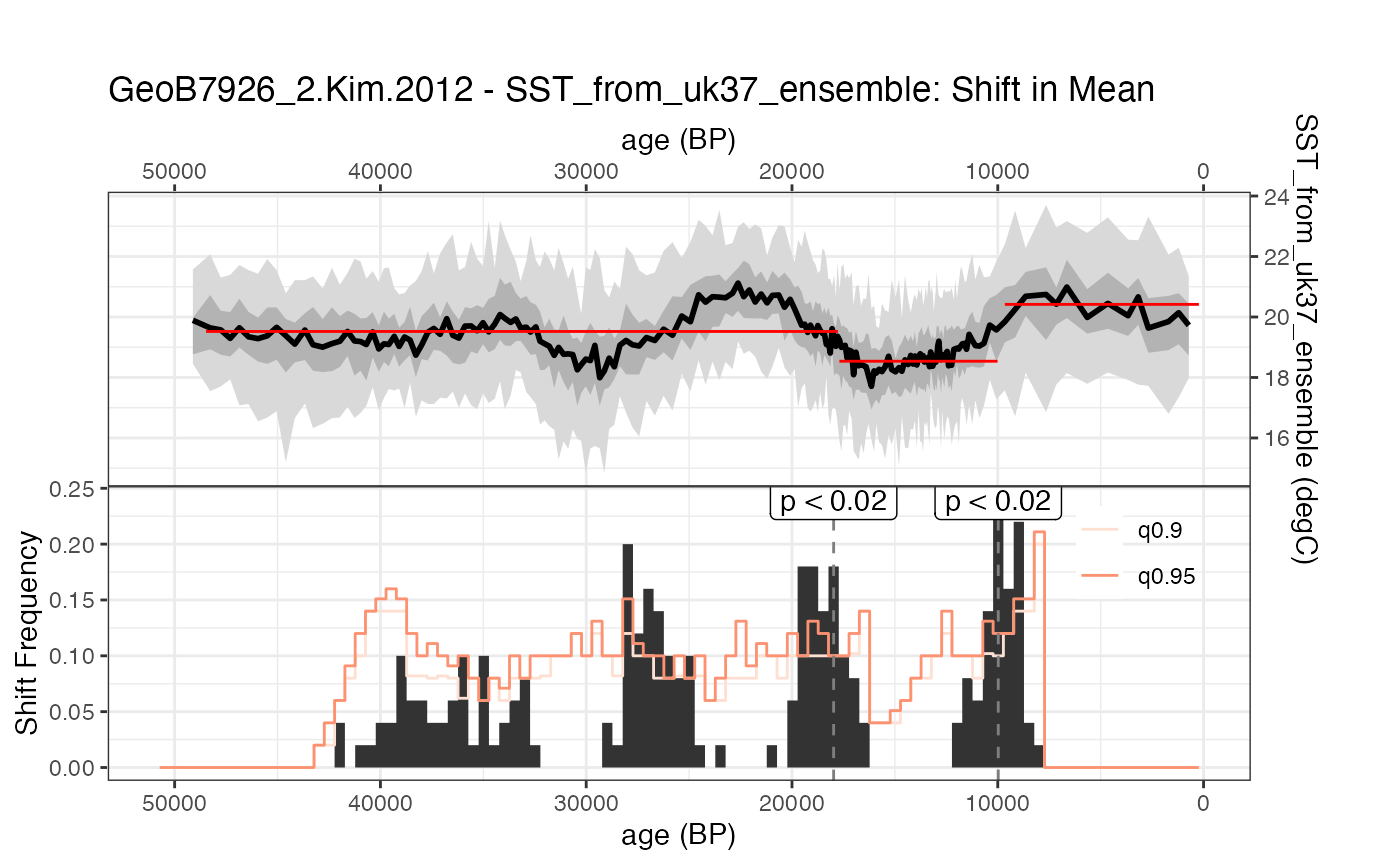
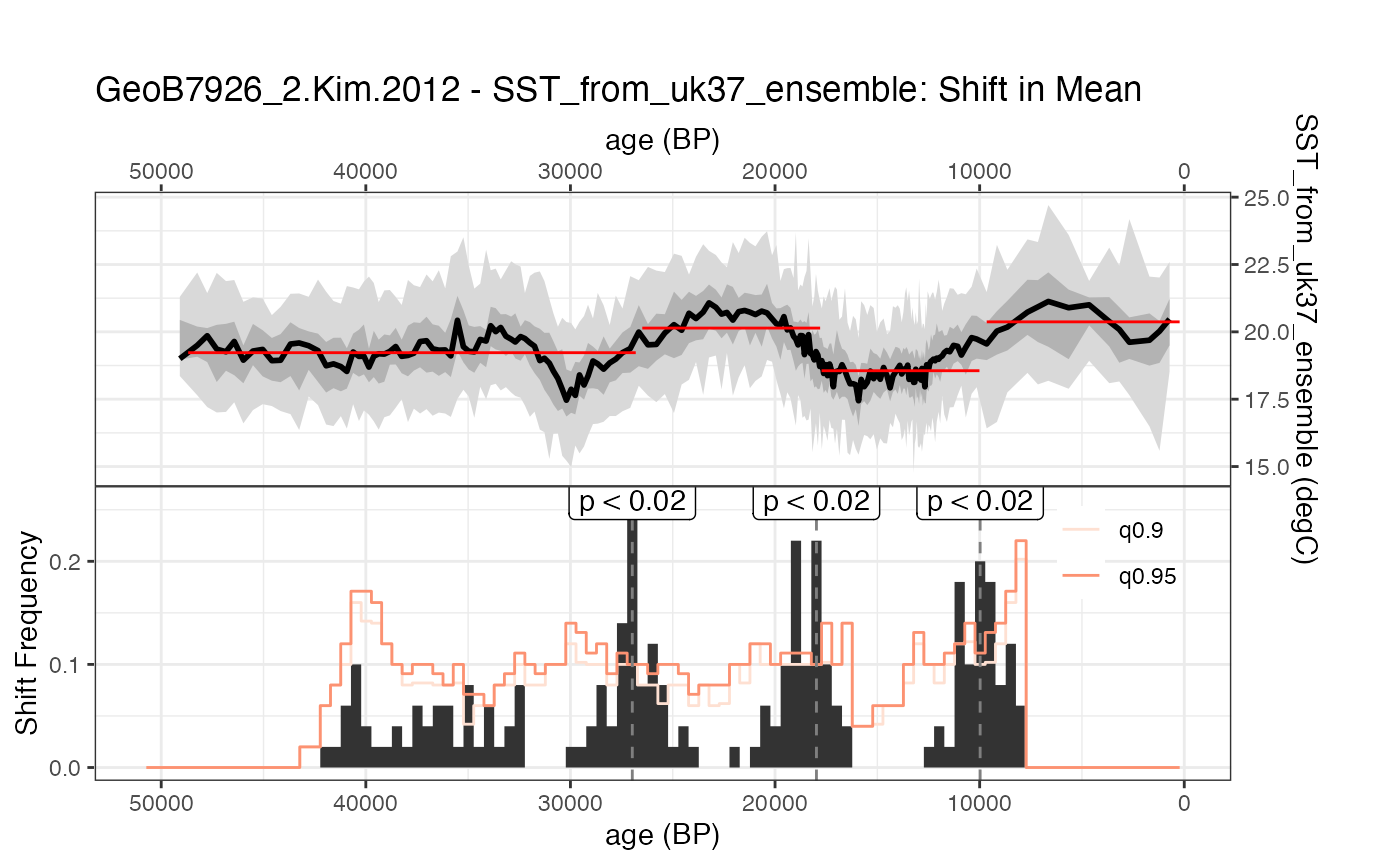
1.1.3

diff --git a/docs/articles/detectShift.html b/docs/articles/detectShift.html
@@ -31,7 +31,7 @@
       </button>
       <span class="navbar-brand">
         <a class="navbar-link" href="../index.html">actR</a>
-        <span class="version label label-default" data-toggle="tooltip" data-placement="bottom" title="Released version">0.1.2</span>
+        <span class="version label label-default" data-toggle="tooltip" data-placement="bottom" title="Released version">0.1.3</span>
       </span>
     </div>
 
@@ -47,7 +47,7 @@
   <a href="../reference/index.html">Reference</a>
 </li>
 <li class="dropdown">
-  <a href="#" class="dropdown-toggle" data-toggle="dropdown" role="button" aria-expanded="false">
+  <a href="#" class="dropdown-toggle" data-toggle="dropdown" role="button" data-bs-toggle="dropdown" aria-expanded="false">
     Articles
      
     <span class="caret"></span>
@@ -81,7 +81,7 @@
 
       
 
-      </header><script src="detectShift_files/header-attrs-2.9/header-attrs.js"></script><div class="row">
+      </header><script src="detectShift_files/header-attrs-2.13/header-attrs.js"></script><div class="row">
   <div class="col-md-9 contents">
     <div class="page-header toc-ignore">
       <h1 data-toc-skip>detectShift</h1>
@@ -120,20 +120,18 @@
 <span class="co">#&gt; GeoB7926_2.Kim.2012 - SST_from_uk37_ensemble: Shift in Mean results</span>
 <span class="co">#&gt; Searched for Shift in Mean with a minimum segment length of 8000 years, summarizing the results over windows of 500 years.</span>
 <span class="co">#&gt; </span>
-<span class="co">#&gt; Overall result: Detected 2 Shift in Mean event(s) that were significant at the alpha &lt; 0.05 level</span>
-<span class="co">#&gt; Registered S3 method overwritten by 'cli':</span>
-<span class="co">#&gt;   method     from         </span>
-<span class="co">#&gt;   print.boxx spatstat.geom</span>
-<span class="co">#&gt; # A tibble: 2 x 3</span>
+<span class="co">#&gt; Overall result: Detected 3 Shift in Mean event(s) that were significant at the alpha &lt; 0.05 level</span>
+<span class="co">#&gt; # A tibble: 3 × 3</span>
 <span class="co">#&gt;   time_start time_end empirical_pvalue</span>
 <span class="co">#&gt;        &lt;dbl&gt;    &lt;dbl&gt;            &lt;dbl&gt;</span>
-<span class="co">#&gt; 1      9727.   10227.                0</span>
+<span class="co">#&gt; 1     26727.   27227.                0</span>
 <span class="co">#&gt; 2     17727.   18227.                0</span>
+<span class="co">#&gt; 3      9727.   10227.                0</span>
 <span class="co">#&gt; Time uncertainty considered? TRUE Time ensemble supplied (n = 100)</span>
 <span class="co">#&gt; Paleo uncertainty considered? TRUE Values ensemble supplied (n = 2500)</span>
 <span class="co">#&gt; Error propagation ensemble members = 50</span>
 <span class="co">#&gt; Null hypothesis testing ensemble members = 50 </span>
-<span class="co">#&gt;   Members simulated using isospectral method</span>
+<span class="co">#&gt; Members simulated using isospectral method</span>
 <span class="co">#&gt; </span>
 <span class="co">#&gt; Parameter choices:</span>
 <span class="co">#&gt; cpt.fun = changepoint::cpt.mean</span>

diff --git a/docs/reference/prepareInput.html b/docs/reference/prepareInput.html
@@ -72,7 +72,7 @@
       </button>
       <span class="navbar-brand">
         <a class="navbar-link" href="../index.html">actR</a>
-        <span class="version label label-default" data-toggle="tooltip" data-placement="bottom" title="Released version">0.1.2</span>
+        <span class="version label label-default" data-toggle="tooltip" data-placement="bottom" title="Released version">0.1.3</span>
       </span>
     </div>
 
@@ -88,7 +88,7 @@
   <a href="../reference/index.html">Reference</a>
 </li>
 <li class="dropdown">
-  <a href="#" class="dropdown-toggle" data-toggle="dropdown" role="button" aria-expanded="false">
+  <a href="#" class="dropdown-toggle" data-toggle="dropdown" role="button" data-bs-toggle="dropdown" aria-expanded="false">
     Articles
      
     <span class="caret"></span>
@@ -147,7 +147,8 @@
   dataset.name <span class='op'>=</span> <span class='cn'>NA</span>,
   expecting.one.row <span class='op'>=</span> <span class='cn'>TRUE</span>,
   sort.by.time <span class='op'>=</span> <span class='cn'>TRUE</span>,
-  remove.time.nas <span class='op'>=</span> <span class='cn'>TRUE</span>
+  remove.time.nas <span class='op'>=</span> <span class='cn'>TRUE</span>,
+  time.range <span class='op'>=</span> <span class='cn'>NA</span>
 <span class='op'>)</span></pre>
 
     <h2 class="hasAnchor" id="arguments"><a class="anchor" href="#arguments"></a>Arguments</h2>
@@ -196,6 +197,10 @@
     <tr>
       <th>remove.time.nas</th>
       <td><p>Do you want to remove observations that are NA, or otherwise not finite, in the time variable (default = TRUE)</p></td>
+    </tr>
+    <tr>
+      <th>time.range</th>
+      <td><p>Optionally enter a time range (as minimum and maximum) that you'd like to restrict the analysis to. (default = NA)</p></td>
     </tr>
     </table>
 

diff --git a/docs/reference/detectShift.html b/docs/reference/detectShift.html
@@ -72,7 +72,7 @@
       </button>
       <span class="navbar-brand">
         <a class="navbar-link" href="../index.html">actR</a>
-        <span class="version label label-default" data-toggle="tooltip" data-placement="bottom" title="Released version">0.1.2</span>
+        <span class="version label label-default" data-toggle="tooltip" data-placement="bottom" title="Released version">0.1.3</span>
       </span>
     </div>
 
@@ -88,7 +88,7 @@
   <a href="../reference/index.html">Reference</a>
 </li>
 <li class="dropdown">
-  <a href="#" class="dropdown-toggle" data-toggle="dropdown" role="button" aria-expanded="false">
+  <a href="#" class="dropdown-toggle" data-toggle="dropdown" role="button" data-bs-toggle="dropdown" aria-expanded="false">
     Articles
      
     <span class="caret"></span>
@@ -149,6 +149,7 @@
   summary.bin.step <span class='op'>=</span> <span class='fl'>100</span>,
   null.hypothesis.n <span class='op'>=</span> <span class='fl'>100</span>,
   null.quantiles <span class='op'>=</span> <span class='fu'><a href='https://rdrr.io/r/base/c.html'>c</a></span><span class='op'>(</span><span class='fl'>0.95</span>, <span class='fl'>0.9</span><span class='op'>)</span>,
+  time.range <span class='op'>=</span> <span class='cn'>NA</span>,
   <span class='va'>...</span>
 <span class='op'>)</span></pre>
 
@@ -206,6 +207,10 @@
     <tr>
       <th>null.quantiles</th>
       <td><p>What quantiles to report as output from null hypothesis testing (default = c(.95, .9))</p></td>
+    </tr>
+    <tr>
+      <th>time.range</th>
+      <td><p>Optionally enter a time range (as minimum and maximum) that you'd like to restrict the analysis to. (default = NA)</p></td>
     </tr>
     <tr>
       <th>...</th>

diff --git a/docs/articles/abruptShift_tests.html b/docs/articles/abruptShift_tests.html
@@ -31,7 +31,7 @@
       </button>
       <span class="navbar-brand">
         <a class="navbar-link" href="../index.html">actR</a>
-        <span class="version label label-default" data-toggle="tooltip" data-placement="bottom" title="Released version">0.1.2</span>
+        <span class="version label label-default" data-toggle="tooltip" data-placement="bottom" title="Released version">0.1.3</span>
       </span>
     </div>
 
@@ -47,7 +47,7 @@
   <a href="../reference/index.html">Reference</a>
 </li>
 <li class="dropdown">
-  <a href="#" class="dropdown-toggle" data-toggle="dropdown" role="button" aria-expanded="false">
+  <a href="#" class="dropdown-toggle" data-toggle="dropdown" role="button" data-bs-toggle="dropdown" aria-expanded="false">
     Articles
      
     <span class="caret"></span>
@@ -81,7 +81,7 @@
 
       
 
-      </header><script src="abruptShift_tests_files/header-attrs-2.9/header-attrs.js"></script><div class="row">
+      </header><script src="abruptShift_tests_files/header-attrs-2.13/header-attrs.js"></script><div class="row">
   <div class="col-md-9 contents">
     <div class="page-header toc-ignore">
       <h1 data-toc-skip>abruptShift_tests</h1>

diff --git a/docs/articles/detectExcursion.html b/docs/articles/detectExcursion.html
@@ -31,7 +31,7 @@
       </button>
       <span class="navbar-brand">
         <a class="navbar-link" href="../index.html">actR</a>
-        <span class="version label label-default" data-toggle="tooltip" data-placement="bottom" title="Released version">0.1.2</span>
+        <span class="version label label-default" data-toggle="tooltip" data-placement="bottom" title="Released version">0.1.3</span>
       </span>
     </div>
 
@@ -47,7 +47,7 @@
   <a href="../reference/index.html">Reference</a>
 </li>
 <li class="dropdown">
-  <a href="#" class="dropdown-toggle" data-toggle="dropdown" role="button" aria-expanded="false">
+  <a href="#" class="dropdown-toggle" data-toggle="dropdown" role="button" data-bs-toggle="dropdown" aria-expanded="false">
     Articles
      
     <span class="caret"></span>
@@ -81,7 +81,7 @@
 
       
 
-      </header><script src="detectExcursion_files/header-attrs-2.9/header-attrs.js"></script><div class="row">
+      </header><script src="detectExcursion_files/header-attrs-2.13/header-attrs.js"></script><div class="row">
   <div class="col-md-9 contents">
     <div class="page-header toc-ignore">
       <h1 data-toc-skip>detectExcursion</h1>

diff --git a/docs/articles/index.html b/docs/articles/index.html
@@ -71,7 +71,7 @@
       </button>
       <span class="navbar-brand">
         <a class="navbar-link" href="../index.html">actR</a>
-        <span class="version label label-default" data-toggle="tooltip" data-placement="bottom" title="Released version">0.1.2</span>
+        <span class="version label label-default" data-toggle="tooltip" data-placement="bottom" title="Released version">0.1.3</span>
       </span>
     </div>
 
@@ -87,7 +87,7 @@
   <a href="../reference/index.html">Reference</a>
 </li>
 <li class="dropdown">
-  <a href="#" class="dropdown-toggle" data-toggle="dropdown" role="button" aria-expanded="false">
+  <a href="#" class="dropdown-toggle" data-toggle="dropdown" role="button" data-bs-toggle="dropdown" aria-expanded="false">
     Articles
      
     <span class="caret"></span>

diff --git a/docs/reference/ar1noise.html b/docs/reference/ar1noise.html
@@ -72,7 +72,7 @@
       </button>
       <span class="navbar-brand">
         <a class="navbar-link" href="../index.html">actR</a>
-        <span class="version label label-default" data-toggle="tooltip" data-placement="bottom" title="Released version">0.1.2</span>
+        <span class="version label label-default" data-toggle="tooltip" data-placement="bottom" title="Released version">0.1.3</span>
       </span>
     </div>
 
@@ -88,7 +88,7 @@
   <a href="../reference/index.html">Reference</a>
 </li>
 <li class="dropdown">
-  <a href="#" class="dropdown-toggle" data-toggle="dropdown" role="button" aria-expanded="false">
+  <a href="#" class="dropdown-toggle" data-toggle="dropdown" role="button" data-bs-toggle="dropdown" aria-expanded="false">
     Articles
      
     <span class="caret"></span>

diff --git a/docs/reference/detectExcursion.html b/docs/reference/detectExcursion.html
@@ -72,7 +72,7 @@
       </button>
       <span class="navbar-brand">
         <a class="navbar-link" href="../index.html">actR</a>
-        <span class="version label label-default" data-toggle="tooltip" data-placement="bottom" title="Released version">0.1.2</span>
+        <span class="version label label-default" data-toggle="tooltip" data-placement="bottom" title="Released version">0.1.3</span>
       </span>
     </div>
 
@@ -88,7 +88,7 @@
   <a href="../reference/index.html">Reference</a>
 </li>
 <li class="dropdown">
-  <a href="#" class="dropdown-toggle" data-toggle="dropdown" role="button" aria-expanded="false">
+  <a href="#" class="dropdown-toggle" data-toggle="dropdown" role="button" data-bs-toggle="dropdown" aria-expanded="false">
     Articles
      
     <span class="caret"></span>

diff --git a/docs/reference/detectExcursionCore.html b/docs/reference/detectExcursionCore.html
@@ -72,7 +72,7 @@
       </button>
       <span class="navbar-brand">
         <a class="navbar-link" href="../index.html">actR</a>
-        <span class="version label label-default" data-toggle="tooltip" data-placement="bottom" title="Released version">0.1.2</span>
+        <span class="version label label-default" data-toggle="tooltip" data-placement="bottom" title="Released version">0.1.3</span>
       </span>
     </div>
 
@@ -88,7 +88,7 @@
   <a href="../reference/index.html">Reference</a>
 </li>
 <li class="dropdown">
-  <a href="#" class="dropdown-toggle" data-toggle="dropdown" role="button" aria-expanded="false">
+  <a href="#" class="dropdown-toggle" data-toggle="dropdown" role="button" data-bs-toggle="dropdown" aria-expanded="false">
     Articles
      
     <span class="caret"></span>

diff --git a/docs/reference/detectShiftCore.html b/docs/reference/detectShiftCore.html
@@ -72,7 +72,7 @@
       </button>
       <span class="navbar-brand">
         <a class="navbar-link" href="../index.html">actR</a>
-        <span class="version label label-default" data-toggle="tooltip" data-placement="bottom" title="Released version">0.1.2</span>
+        <span class="version label label-default" data-toggle="tooltip" data-placement="bottom" title="Released version">0.1.3</span>
       </span>
     </div>
 
@@ -88,7 +88,7 @@
   <a href="../reference/index.html">Reference</a>
 </li>
 <li class="dropdown">
-  <a href="#" class="dropdown-toggle" data-toggle="dropdown" role="button" aria-expanded="false">
+  <a href="#" class="dropdown-toggle" data-toggle="dropdown" role="button" data-bs-toggle="dropdown" aria-expanded="false">
     Articles
      
     <span class="caret"></span>

diff --git a/docs/reference/geob7926_2.html b/docs/reference/geob7926_2.html
@@ -72,7 +72,7 @@
       </button>
       <span class="navbar-brand">
         <a class="navbar-link" href="../index.html">actR</a>
-        <span class="version label label-default" data-toggle="tooltip" data-placement="bottom" title="Released version">0.1.2</span>
+        <span class="version label label-default" data-toggle="tooltip" data-placement="bottom" title="Released version">0.1.3</span>
       </span>
     </div>
 
@@ -88,7 +88,7 @@
   <a href="../reference/index.html">Reference</a>
 </li>
 <li class="dropdown">
-  <a href="#" class="dropdown-toggle" data-toggle="dropdown" role="button" aria-expanded="false">
+  <a href="#" class="dropdown-toggle" data-toggle="dropdown" role="button" data-bs-toggle="dropdown" aria-expanded="false">
     Articles
      
     <span class="caret"></span>

diff --git a/docs/reference/great_basin.html b/docs/reference/great_basin.html
@@ -72,7 +72,7 @@
       </button>
       <span class="navbar-brand">
         <a class="navbar-link" href="../index.html">actR</a>
-        <span class="version label label-default" data-toggle="tooltip" data-placement="bottom" title="Released version">0.1.2</span>
+        <span class="version label label-default" data-toggle="tooltip" data-placement="bottom" title="Released version">0.1.3</span>
       </span>
     </div>
 
@@ -88,7 +88,7 @@
   <a href="../reference/index.html">Reference</a>
 </li>
 <li class="dropdown">
-  <a href="#" class="dropdown-toggle" data-toggle="dropdown" role="button" aria-expanded="false">
+  <a href="#" class="dropdown-toggle" data-toggle="dropdown" role="button" data-bs-toggle="dropdown" aria-expanded="false">
     Articles
      
     <span class="caret"></span>
